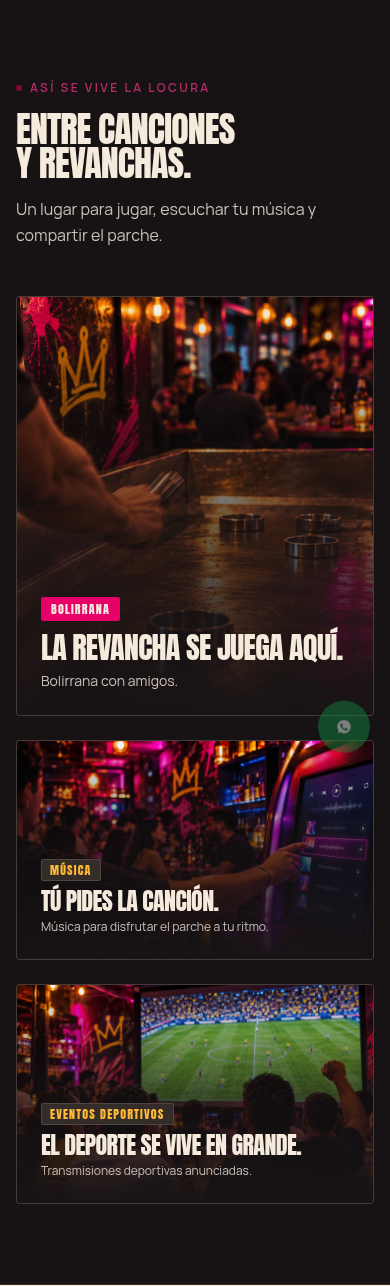
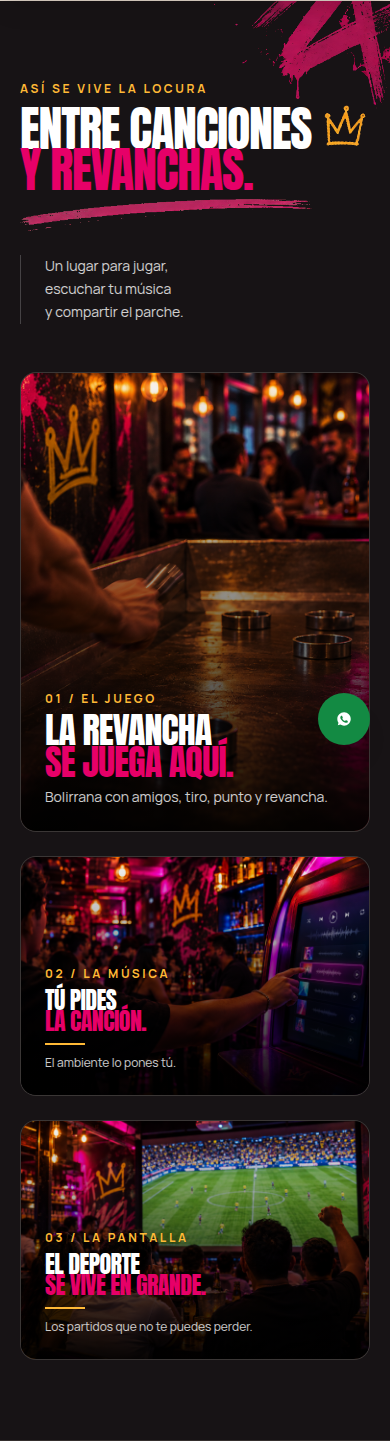
style: calibrate section 03 experiencias with authentic assets, dual-tone headlines and asymmetrical grid

diff --git a/src/data/siteConfig.ts b/src/data/siteConfig.ts
@@ -22,6 +22,8 @@ export interface ExperienceItem {
   id: string;
   category: string;
   title: string;
+  titleLine1?: string;
+  titleLine2?: string;
   subtitle: string;
   image: string;
   alt: string;
@@ -113,27 +115,33 @@ export const SITE_CONFIG = {
     items: [
       {
         id: 'bolirrana',
-        category: 'Bolirrana',
+        category: '01 / EL JUEGO',
         title: 'LA REVANCHA SE JUEGA AQUÍ.',
-        subtitle: 'Bolirrana con amigos.',
+        titleLine1: 'LA REVANCHA',
+        titleLine2: 'SE JUEGA AQUÍ.',
+        subtitle: 'Bolirrana con amigos, tiro, punto y revancha.',
         image: '/images/v2/bolirrana.png',
         alt: 'Mesa de bolirrana de La Locura Bar.',
       },
       {
         id: 'musica',
-        category: 'Música',
+        category: '02 / LA MÚSICA',
         title: 'TÚ PIDES LA CANCIÓN.',
-        subtitle: 'Música para disfrutar el parche a tu ritmo.',
+        titleLine1: 'TÚ PIDES',
+        titleLine2: 'LA CANCIÓN.',
+        subtitle: 'El ambiente lo pones tú.',
         image: '/images/v2/musica.png',
-        alt: 'Zona de mesas de La Locura Bar con iluminación nocturna.',
+        alt: 'Zona de mesas de La Locura Bar con rocola digital y música.',
       },
       {
         id: 'pantalla',
-        category: 'Eventos deportivos',
+        category: '03 / LA PANTALLA',
         title: 'EL DEPORTE SE VIVE EN GRANDE.',
-        subtitle: 'Transmisiones deportivas anunciadas.',
+        titleLine1: 'EL DEPORTE',
+        titleLine2: 'SE VIVE EN GRANDE.',
+        subtitle: 'Los partidos que no te puedes perder.',
         image: '/images/v2/pantalla.png',
-        alt: 'Pantalla del bar durante una transmisión deportiva anunciada.',
+        alt: 'Pantalla de gran formato para partidos y eventos en La Locura Bar.',
       },
     ] as ExperienceItem[],
   },
